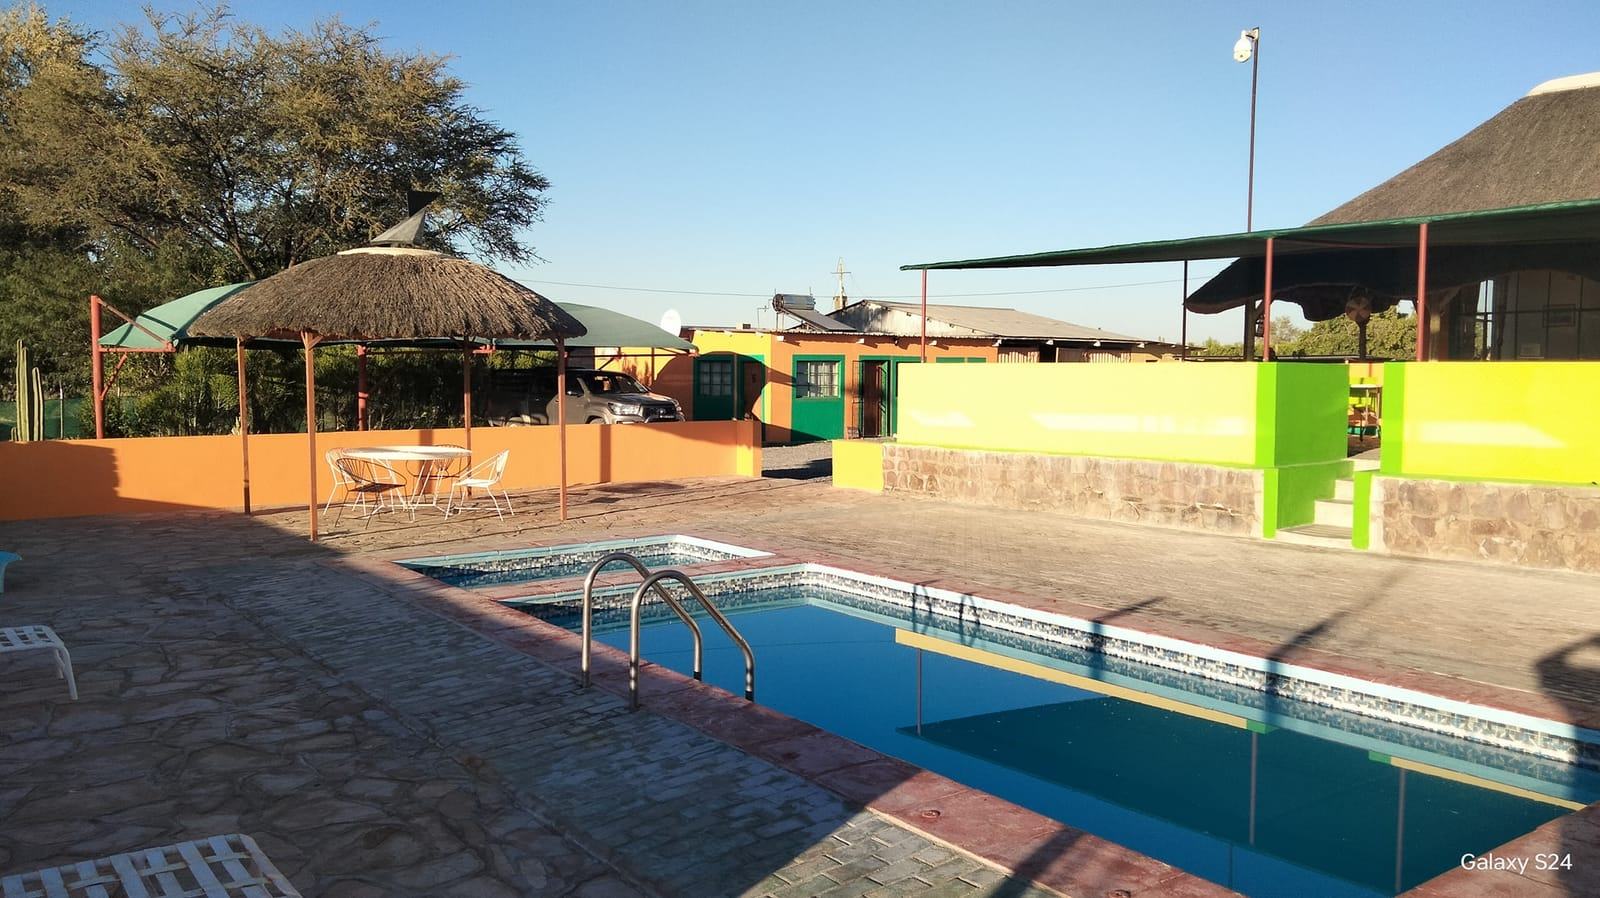
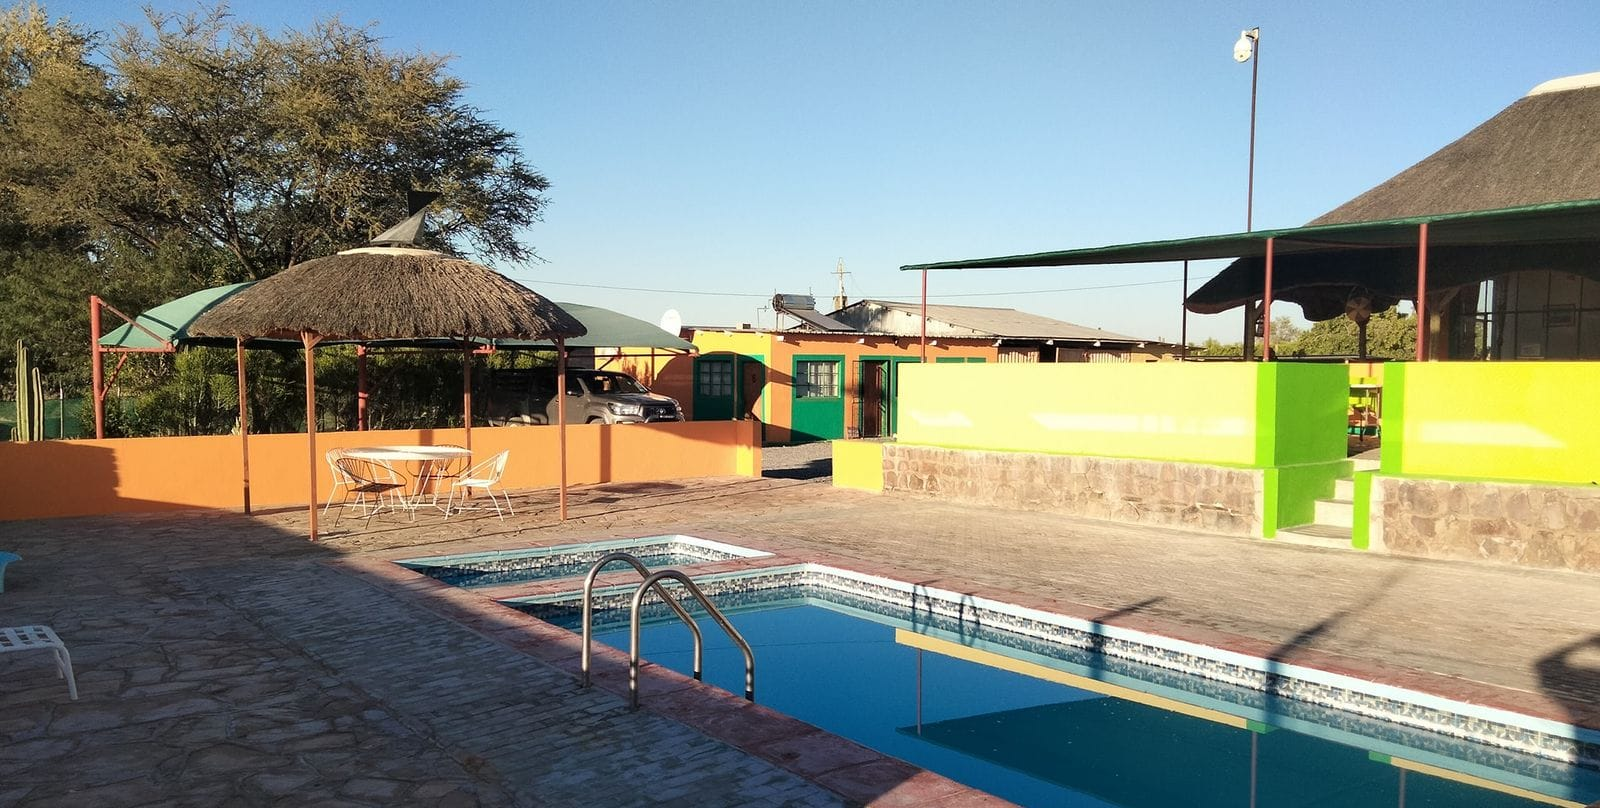
Round 9: every owner photo placed — gallery completion + restaurant place gallery
- public/images: rebuilt room-double-wardrobe at 1600w (was an 816w thumb of the
  8160x6120 DSLR original), rebuilt property-pool-wide with the Galaxy S24
  watermark cropped off, new honest slugs plate-yellow-rice-curry and
  plate-pap-braise replacing the unused misleading masters
  (guesthouse-exterior-deck was a plate of yellow rice; breakfast-board-wors
  was pap with braised meat) - misleading files deleted
- gallery-data.ts: 10 owner photos added across rooms/pools/grounds/events/
  night/food with descriptive alts (185 total)
- restaurant-gallery.tsx: new 'The place' section (11 restaurant interior and
  exterior photos) above the plates grid; one lightbox spans both sections;
  5 new plates added
- probes: round9_probe.cjs (17 checks) ALL PASS; round8_verify.sh 52/52 still
  green; build green (25 routes); /gallery 250KB, /restaurant/gallery 117KB

diff --git a/src/components/site/restaurant-gallery.tsx b/src/components/site/restaurant-gallery.tsx
@@ -4,45 +4,69 @@ import Image from "next/image";
 import { useEffect, useState } from "react";
 import { QuietFade } from "./motion";
 
-// Restaurant gallery: every plate and drink the owner photographed at the town
-// centre kitchen. Guesthouse photos stay on the guesthouse gallery, because
-// the two businesses sit at different locations.
-const PHOTOS = [
-  { src: "dish-samoosa", alt: "Golden samoosas with sauce and salad on a plate" },
-  { src: "dish-matangara", alt: "Matangara tripe in tomato gravy served with pap" },
-  { src: "dish-feast", alt: "Family feast platter with pap, chicken and salads" },
-  { src: "dish-braise", alt: "Slow braised meat with peppers and pap" },
-  { src: "dish-steak", alt: "T-bone steak with chips and vegetables" },
-  { src: "dish-pizza", alt: "Freshly baked pizza from the oven" },
-  { src: "dish-wings", alt: "Grilled chicken wings with lemon and tomato" },
-  { src: "dish-fish", alt: "Crumbed fish fillet with rice and sauce" },
-  { src: "dish-schnitzel", alt: "Crumbed schnitzel with mash and creamy sauce" },
-  { src: "tray-breakfast-eggs-sausage", alt: "Breakfast tray with eggs, sausage and toast" },
-  { src: "platter-breakfast-mushrooms", alt: "Breakfast platter with eggs, mushrooms and toast" },
-  { src: "tray-ribs-chips", alt: "Ribs and chips on a black tray" },
-  { src: "platter-wings-chips", alt: "Chicken wings and chips with lemon" },
-  { src: "platter-chicken-onions", alt: "Carved chicken with onion rings on a platter" },
-  { src: "platter-fish-eggs-salads", alt: "Whole fish platter with eggs, rice and salads" },
-  { src: "plate-steak-chips-salad", alt: "Steak, chips and salad on a Big Brothers plate" },
-  { src: "plate-grilled-chicken", alt: "Grilled chicken with salad and lemon" },
-  { src: "plate-steak-onion-rings", alt: "Steak topped with onion rings" },
-  { src: "plate-steak-chips-peppers", alt: "Steak and chips with grilled peppers" },
-  { src: "plate-chicken-rice-salad", alt: "Chicken pieces with rice and greek salad" },
-  { src: "plate-pap-spinach", alt: "Pap and spinach served the traditional way" },
-  { src: "plate-french-toast", alt: "French toast triangles with tomato and cucumber" },
-  { src: "pancake-wedges-cinnamon", alt: "Pancake cut in wedges with cinnamon sugar" },
-  { src: "pancake-stuffed-plate", alt: "Stuffed pancake on a white plate" },
-  { src: "pancakes-stuffed-two", alt: "Two stuffed pancakes on a plate" },
-  { src: "omelette-toast-plate", alt: "Omelette with buttered toast triangles" },
-  { src: "mini-pancakes-paddle", alt: "Three mini pancakes on a paddle board" },
-  { src: "pancake-paddles-grey-table", alt: "Three mini pancakes on wooden paddles" },
-  { src: "cocktail-blue", alt: "Blue cocktail from the bar" },
-  { src: "cocktail-sunrise", alt: "Sunset cocktail in a tall glass" },
-  { src: "cocktail-blue-goblet", alt: "Blue cocktail in a balloon glass" },
-  { src: "cocktail-orange-leaf", alt: "Orange cocktail with a fresh leaf" },
-  { src: "drink-lemon-ice", alt: "Lemon cooler with ice on the table" },
-  { src: "evening-patio-dining", alt: "Patio tables set out for dinner in the evening" },
+// Restaurant gallery: the place itself (interiors and exteriors photographed by
+// the owner) plus every plate and drink from the town centre kitchen.
+// Guesthouse photos stay on the guesthouse gallery, because the two businesses
+// sit at different locations.
+type Photo = { src: string; alt: string; w: number; h: number };
+
+const PLACES: Photo[] = [
+  { src: "restaurant-exterior-entrance", alt: "The restaurant entrance with green and yellow posts", w: 810, h: 1080 },
+  { src: "restaurant-exterior-entrance-flag", alt: "The restaurant entrance with the brand banner and flag", w: 810, h: 1080 },
+  { src: "restaurant-exterior-banner-dusk", alt: "The Big Brothers banner wall at dusk", w: 810, h: 1080 },
+  { src: "restaurant-exterior-table", alt: "Street-side table outside the restaurant window", w: 810, h: 1080 },
+  { src: "restaurant-interior-wide", alt: "The restaurant dining room set for supper", w: 1080, h: 810 },
+  { src: "restaurant-interior-counter", alt: "Inside Big Brothers Restaurant: counter, tables and drinks fridge", w: 1080, h: 810 },
+  { src: "restaurant-interior-evening", alt: "Evening light inside the restaurant with tables set", w: 1080, h: 810 },
+  { src: "restaurant-interior-fridges", alt: "The restaurant counter with display fridges", w: 1080, h: 810 },
+  { src: "restaurant-bar-corner", alt: "The restaurant bar corner with the wooden back bar", w: 1080, h: 810 },
+  { src: "restaurant-bar-taps", alt: "The wooden bar with beer taps and high tables", w: 1080, h: 810 },
+  { src: "restaurant-bar-sign", alt: "The Big Brothers Restaurant sign above the bar counter", w: 1080, h: 810 },
 ];
+
+const PLATES: Photo[] = [
+  { src: "dish-samoosa", alt: "Golden samoosas with sauce and salad on a plate", w: 900, h: 675 },
+  { src: "dish-matangara", alt: "Matangara tripe in tomato gravy served with pap", w: 900, h: 675 },
+  { src: "dish-feast", alt: "Family feast platter with pap, chicken and salads", w: 900, h: 675 },
+  { src: "dish-braise", alt: "Slow braised meat with peppers and pap", w: 900, h: 675 },
+  { src: "dish-steak", alt: "T-bone steak with chips and vegetables", w: 900, h: 675 },
+  { src: "dish-pizza", alt: "Freshly baked pizza from the oven", w: 900, h: 675 },
+  { src: "dish-wings", alt: "Grilled chicken wings with lemon and tomato", w: 900, h: 675 },
+  { src: "dish-fish", alt: "Crumbed fish fillet with rice and sauce", w: 900, h: 675 },
+  { src: "dish-schnitzel", alt: "Crumbed schnitzel with mash and creamy sauce", w: 900, h: 675 },
+  { src: "tray-breakfast-eggs-sausage", alt: "Breakfast tray with eggs, sausage and toast", w: 900, h: 675 },
+  { src: "platter-breakfast-mushrooms", alt: "Breakfast platter with eggs, mushrooms and toast", w: 900, h: 675 },
+  { src: "breakfast-eggs-beans", alt: "Full breakfast with fried eggs, beans, cheese, toast and mushrooms", w: 900, h: 675 },
+  { src: "tray-ribs-chips", alt: "Ribs and chips on a black tray", w: 900, h: 675 },
+  { src: "platter-wings-chips", alt: "Chicken wings and chips with lemon", w: 900, h: 675 },
+  { src: "hero-wings", alt: "Grilled wings with lemon, tomato and lettuce on a black platter", w: 900, h: 675 },
+  { src: "platter-chicken-onions", alt: "Carved chicken with onion rings on a platter", w: 900, h: 675 },
+  { src: "hero-platter", alt: "Chicken platter with pap, relish and pepper rings", w: 900, h: 675 },
+  { src: "platter-fish-eggs-salads", alt: "Whole fish platter with eggs, rice and salads", w: 900, h: 675 },
+  { src: "plate-steak-chips-salad", alt: "Steak, chips and salad on a Big Brothers plate", w: 900, h: 675 },
+  { src: "plate-grilled-chicken", alt: "Grilled chicken with salad and lemon", w: 900, h: 675 },
+  { src: "plate-steak-onion-rings", alt: "Steak topped with onion rings", w: 900, h: 675 },
+  { src: "plate-steak-chips-peppers", alt: "Steak and chips with grilled peppers", w: 900, h: 675 },
+  { src: "plate-chicken-rice-salad", alt: "Chicken pieces with rice and greek salad", w: 900, h: 675 },
+  { src: "plate-pap-spinach", alt: "Pap and spinach served the traditional way", w: 900, h: 675 },
+  { src: "plate-yellow-rice-curry", alt: "Yellow rice with spinach and beef curry, cucumber on the side", w: 900, h: 675 },
+  { src: "plate-pap-braise", alt: "Pap with braised meat topped with onion rings", w: 900, h: 675 },
+  { src: "plate-french-toast", alt: "French toast triangles with tomato and cucumber", w: 900, h: 675 },
+  { src: "pancake-wedges-cinnamon", alt: "Pancake cut in wedges with cinnamon sugar", w: 900, h: 675 },
+  { src: "pancake-stuffed-plate", alt: "Stuffed pancake on a white plate", w: 900, h: 675 },
+  { src: "pancakes-stuffed-two", alt: "Two stuffed pancakes on a plate", w: 900, h: 675 },
+  { src: "omelette-toast-plate", alt: "Omelette with buttered toast triangles", w: 900, h: 675 },
+  { src: "mini-pancakes-paddle", alt: "Three mini pancakes on a paddle board", w: 900, h: 675 },
+  { src: "pancake-paddles-grey-table", alt: "Three mini pancakes on wooden paddles", w: 900, h: 675 },
+  { src: "cocktail-blue", alt: "Blue cocktail from the bar", w: 900, h: 675 },
+  { src: "cocktail-sunrise", alt: "Sunset cocktail in a tall glass", w: 900, h: 675 },
+  { src: "cocktail-blue-goblet", alt: "Blue cocktail in a balloon glass", w: 900, h: 675 },
+  { src: "cocktail-orange-leaf", alt: "Orange cocktail with a fresh leaf", w: 900, h: 675 },
+  { src: "drink-lemon-ice", alt: "Lemon cooler with ice on the table", w: 900, h: 675 },
+  { src: "evening-patio-dining", alt: "Patio tables set out for dinner in the evening", w: 900, h: 675 },
+];
+
+const ALL: Photo[] = [...PLACES, ...PLATES];
 
 export function RestaurantGallery() {
   const [open, setOpen] = useState<number | null>(null);
@@ -50,8 +74,8 @@ export function RestaurantGallery() {
   useEffect(() => {
     const onKey = (e: KeyboardEvent) => {
       if (e.key === "Escape") setOpen(null);
-      if (open !== null && e.key === "ArrowRight") setOpen((o) => (o === null ? o : (o + 1) % PHOTOS.length));
-      if (open !== null && e.key === "ArrowLeft") setOpen((o) => (o === null ? o : (o - 1 + PHOTOS.length) % PHOTOS.length));
+      if (open !== null && e.key === "ArrowRight") setOpen((o) => (o === null ? o : (o + 1) % ALL.length));
+      if (open !== null && e.key === "ArrowLeft") setOpen((o) => (o === null ? o : (o - 1 + ALL.length) % ALL.length));
     };
     window.addEventListener("keydown", onKey);
     return () => window.removeEventListener("keydown", onKey);
@@ -64,44 +88,56 @@ export function RestaurantGallery() {
     };
   }, [open]);
 
+  const grid = (photos: Photo[], offset: number) => (
+    <ul className="columns-2 gap-4 md:columns-3 [&>*]:mb-4">
+      {photos.map((p, i) => (
+        <li key={p.src} className="break-inside-avoid">
+          <QuietFade delay={(i % 3) * 0.05}>
+            <button
+              onClick={() => setOpen(offset + i)}
+              className="photo-frame group block w-full border border-line"
+              aria-label={`View photo: ${p.alt}`}
+            >
+              <Image
+                src={`/images/${p.src}.jpg`}
+                alt={p.alt}
+                width={900}
+                height={675}
+                loading="lazy"
+                quality={48}
+                sizes="(max-width: 768px) 50vw, 33vw"
+                className="h-auto w-full object-cover"
+              />
+            </button>
+          </QuietFade>
+        </li>
+      ))}
+    </ul>
+  );
+
   return (
     <>
       <section className="bg-cream" aria-label="Restaurant gallery">
         <div className="mx-auto max-w-6xl px-4 py-16 md:px-6 md:py-24">
           <h1 className="hero-rise max-w-[20ch] font-display text-[clamp(2.2rem,4.6vw,3.9rem)] font-semibold leading-[1.07] tracking-[-0.02em]">
-            Plates from our own kitchen.
+            The place in town, and the plates it serves.
           </h1>
           <p className="hero-rise mt-4 max-w-xl text-lg text-mut" style={{ "--i": 1 } as React.CSSProperties}>
-            Real food from Big Brothers Restaurant in Usakos town centre. Tap any photo to see it larger.
+            Real photos of Big Brothers Restaurant in Usakos town centre: the dining room and bar, then the food. Tap any photo to see it larger.
           </p>
         </div>
       </section>
 
-      <section className="mx-auto max-w-6xl px-4 pb-20 md:px-6" aria-label="Photos">
-        <ul className="columns-2 gap-4 md:columns-3 [&>*]:mb-4">
-          {PHOTOS.map((p, i) => (
-            <li key={p.src} className="break-inside-avoid">
-              <QuietFade delay={(i % 3) * 0.05}>
-                <button
-                  onClick={() => setOpen(i)}
-                  className="photo-frame group block w-full border border-line"
-                  aria-label={`View photo: ${p.alt}`}
-                >
-                  <Image
-                    src={`/images/${p.src}.jpg`}
-                    alt={p.alt}
-                    width={900}
-                    height={675}
-                    loading="lazy"
-                    quality={48}
-                    sizes="(max-width: 768px) 50vw, 33vw"
-                    className="h-auto w-full object-cover"
-                  />
-                </button>
-              </QuietFade>
-            </li>
-          ))}
-        </ul>
+      <section className="mx-auto max-w-6xl px-4 pb-4 md:px-6" aria-label="The restaurant">
+        <h2 className="font-display text-2xl font-semibold tracking-[-0.01em] md:text-3xl">The place</h2>
+        <p className="mt-2 max-w-xl text-mut">Corner of Theo-Ben Gurirab and Bismarck: the dining room, the bar and the banner wall outside.</p>
+        <div className="mt-6">{grid(PLACES, 0)}</div>
+      </section>
+
+      <section className="mx-auto max-w-6xl px-4 pb-20 pt-10 md:px-6" aria-label="Plates and drinks">
+        <h2 className="font-display text-2xl font-semibold tracking-[-0.01em] md:text-3xl">Plates & drinks</h2>
+        <p className="mt-2 max-w-xl text-mut">Every price for these dishes is on the menu page.</p>
+        <div className="mt-6">{grid(PLATES, PLACES.length)}</div>
       </section>
 
       {open !== null && (
@@ -109,7 +145,7 @@ export function RestaurantGallery() {
           className="fixed inset-0 z-[400] flex items-center justify-center bg-ink/95 p-4"
           role="dialog"
           aria-modal="true"
-          aria-label={PHOTOS[open].alt}
+          aria-label={ALL[open].alt}
           onClick={() => setOpen(null)}
         >
           <button
@@ -123,7 +159,7 @@ export function RestaurantGallery() {
             className="absolute left-3 top-1/2 -translate-y-1/2 rounded-full border border-paper/30 px-4 py-3 text-paper transition-colors hover:bg-paper/10"
             onClick={(e) => {
               e.stopPropagation();
-              setOpen((o) => (o === null ? o : (o - 1 + PHOTOS.length) % PHOTOS.length));
+              setOpen((o) => (o === null ? o : (o - 1 + ALL.length) % ALL.length));
             }}
             aria-label="Previous photo"
           >
@@ -131,8 +167,8 @@ export function RestaurantGallery() {
           </button>
           <figure className="pop-in max-h-full max-w-4xl" onClick={(e) => e.stopPropagation()}>
             <Image
-              src={`/images/${PHOTOS[open].src}.jpg`}
-              alt={PHOTOS[open].alt}
+              src={`/images/${ALL[open].src}.jpg`}
+              alt={ALL[open].alt}
               width={900}
               height={675}
               className="max-h-[80vh] w-auto object-contain"
@@ -143,7 +179,7 @@ export function RestaurantGallery() {
             className="absolute right-3 top-1/2 -translate-y-1/2 rounded-full border border-paper/30 px-4 py-3 text-paper transition-colors hover:bg-paper/10"
             onClick={(e) => {
               e.stopPropagation();
-              setOpen((o) => (o === null ? o : (o + 1) % PHOTOS.length));
+              setOpen((o) => (o === null ? o : (o + 1) % ALL.length));
             }}
             aria-label="Next photo"
           >

diff --git a/src/lib/gallery-data.ts b/src/lib/gallery-data.ts
@@ -1,7 +1,9 @@
 // GENERATED by scripts/tangison/build_all_masters.mjs from the owner's own
 // photos (originals/gofile). Do not edit by hand: rerun the script.
-// Every photo the owner supplied is on the site; alt text describes what is
-// visible and invents nothing.
+// Round 9 completed the set: every real photo the owner supplied is now on
+// the site; alt text describes what is visible and invents nothing.
+// gallery-01..30 in public/images are legacy old-site scrapes, not owner
+// photos, and are intentionally not part of GALLERY.
 
 export type GalleryGroup = "rooms" | "grounds" | "pools" | "events" | "food" | "drinks" | "animals" | "night" | "crew" | "restaurant";
 
@@ -173,4 +175,16 @@ export const GALLERY: GalleryPhoto[] = [
   { slug: "restaurant-exterior-table", group: "restaurant", alt: "Street-side table outside the restaurant window", w: 810, h: 1080 },
   { slug: "restaurant-exterior-entrance-flag", group: "restaurant", alt: "The restaurant entrance with the brand banner and flag", w: 810, h: 1080 },
   { slug: "restaurant-exterior-entrance", group: "restaurant", alt: "The restaurant entrance with green and yellow posts", w: 810, h: 1080 },
+  // Round 9: the last owner photos placed (some sat unused under misleading
+  // names since round 5; the two renamed plates were rebuilt from originals).
+  { slug: "room-double-wardrobe", group: "rooms", alt: "Spacious double room with built-in cupboards, ceiling fan and air-conditioner", w: 1600, h: 2133 },
+  { slug: "property-pool-wide", group: "pools", alt: "The pool terrace with its thatched lapa and painted walls", w: 1600, h: 808 },
+  { slug: "braai-fireplace-thatch", group: "grounds", alt: "Brick braai fireplace under the thatched lapa", w: 1024, h: 768 },
+  { slug: "entertainment-pool-table", group: "events", alt: "Pool table and bar counter under the thatch at night", w: 1080, h: 810 },
+  { slug: "patio-bar-counter", group: "night", alt: "The patio bar and chest fridges after dark", w: 1000, h: 750 },
+  { slug: "breakfast-eggs-beans", group: "food", alt: "Full breakfast with fried eggs, beans, cheese, toast and mushrooms", w: 1024, h: 768 },
+  { slug: "plate-yellow-rice-curry", group: "food", alt: "Yellow rice with spinach and beef curry, cucumber on the side", w: 1024, h: 768 },
+  { slug: "plate-pap-braise", group: "food", alt: "Pap with braised meat topped with onion rings", w: 1024, h: 768 },
+  { slug: "hero-wings", group: "food", alt: "Grilled wings with lemon, tomato and lettuce on a black platter", w: 1400, h: 854 },
+  { slug: "hero-platter", group: "food", alt: "Chicken platter with pap, relish and pepper rings", w: 1600, h: 905 },
 ];
